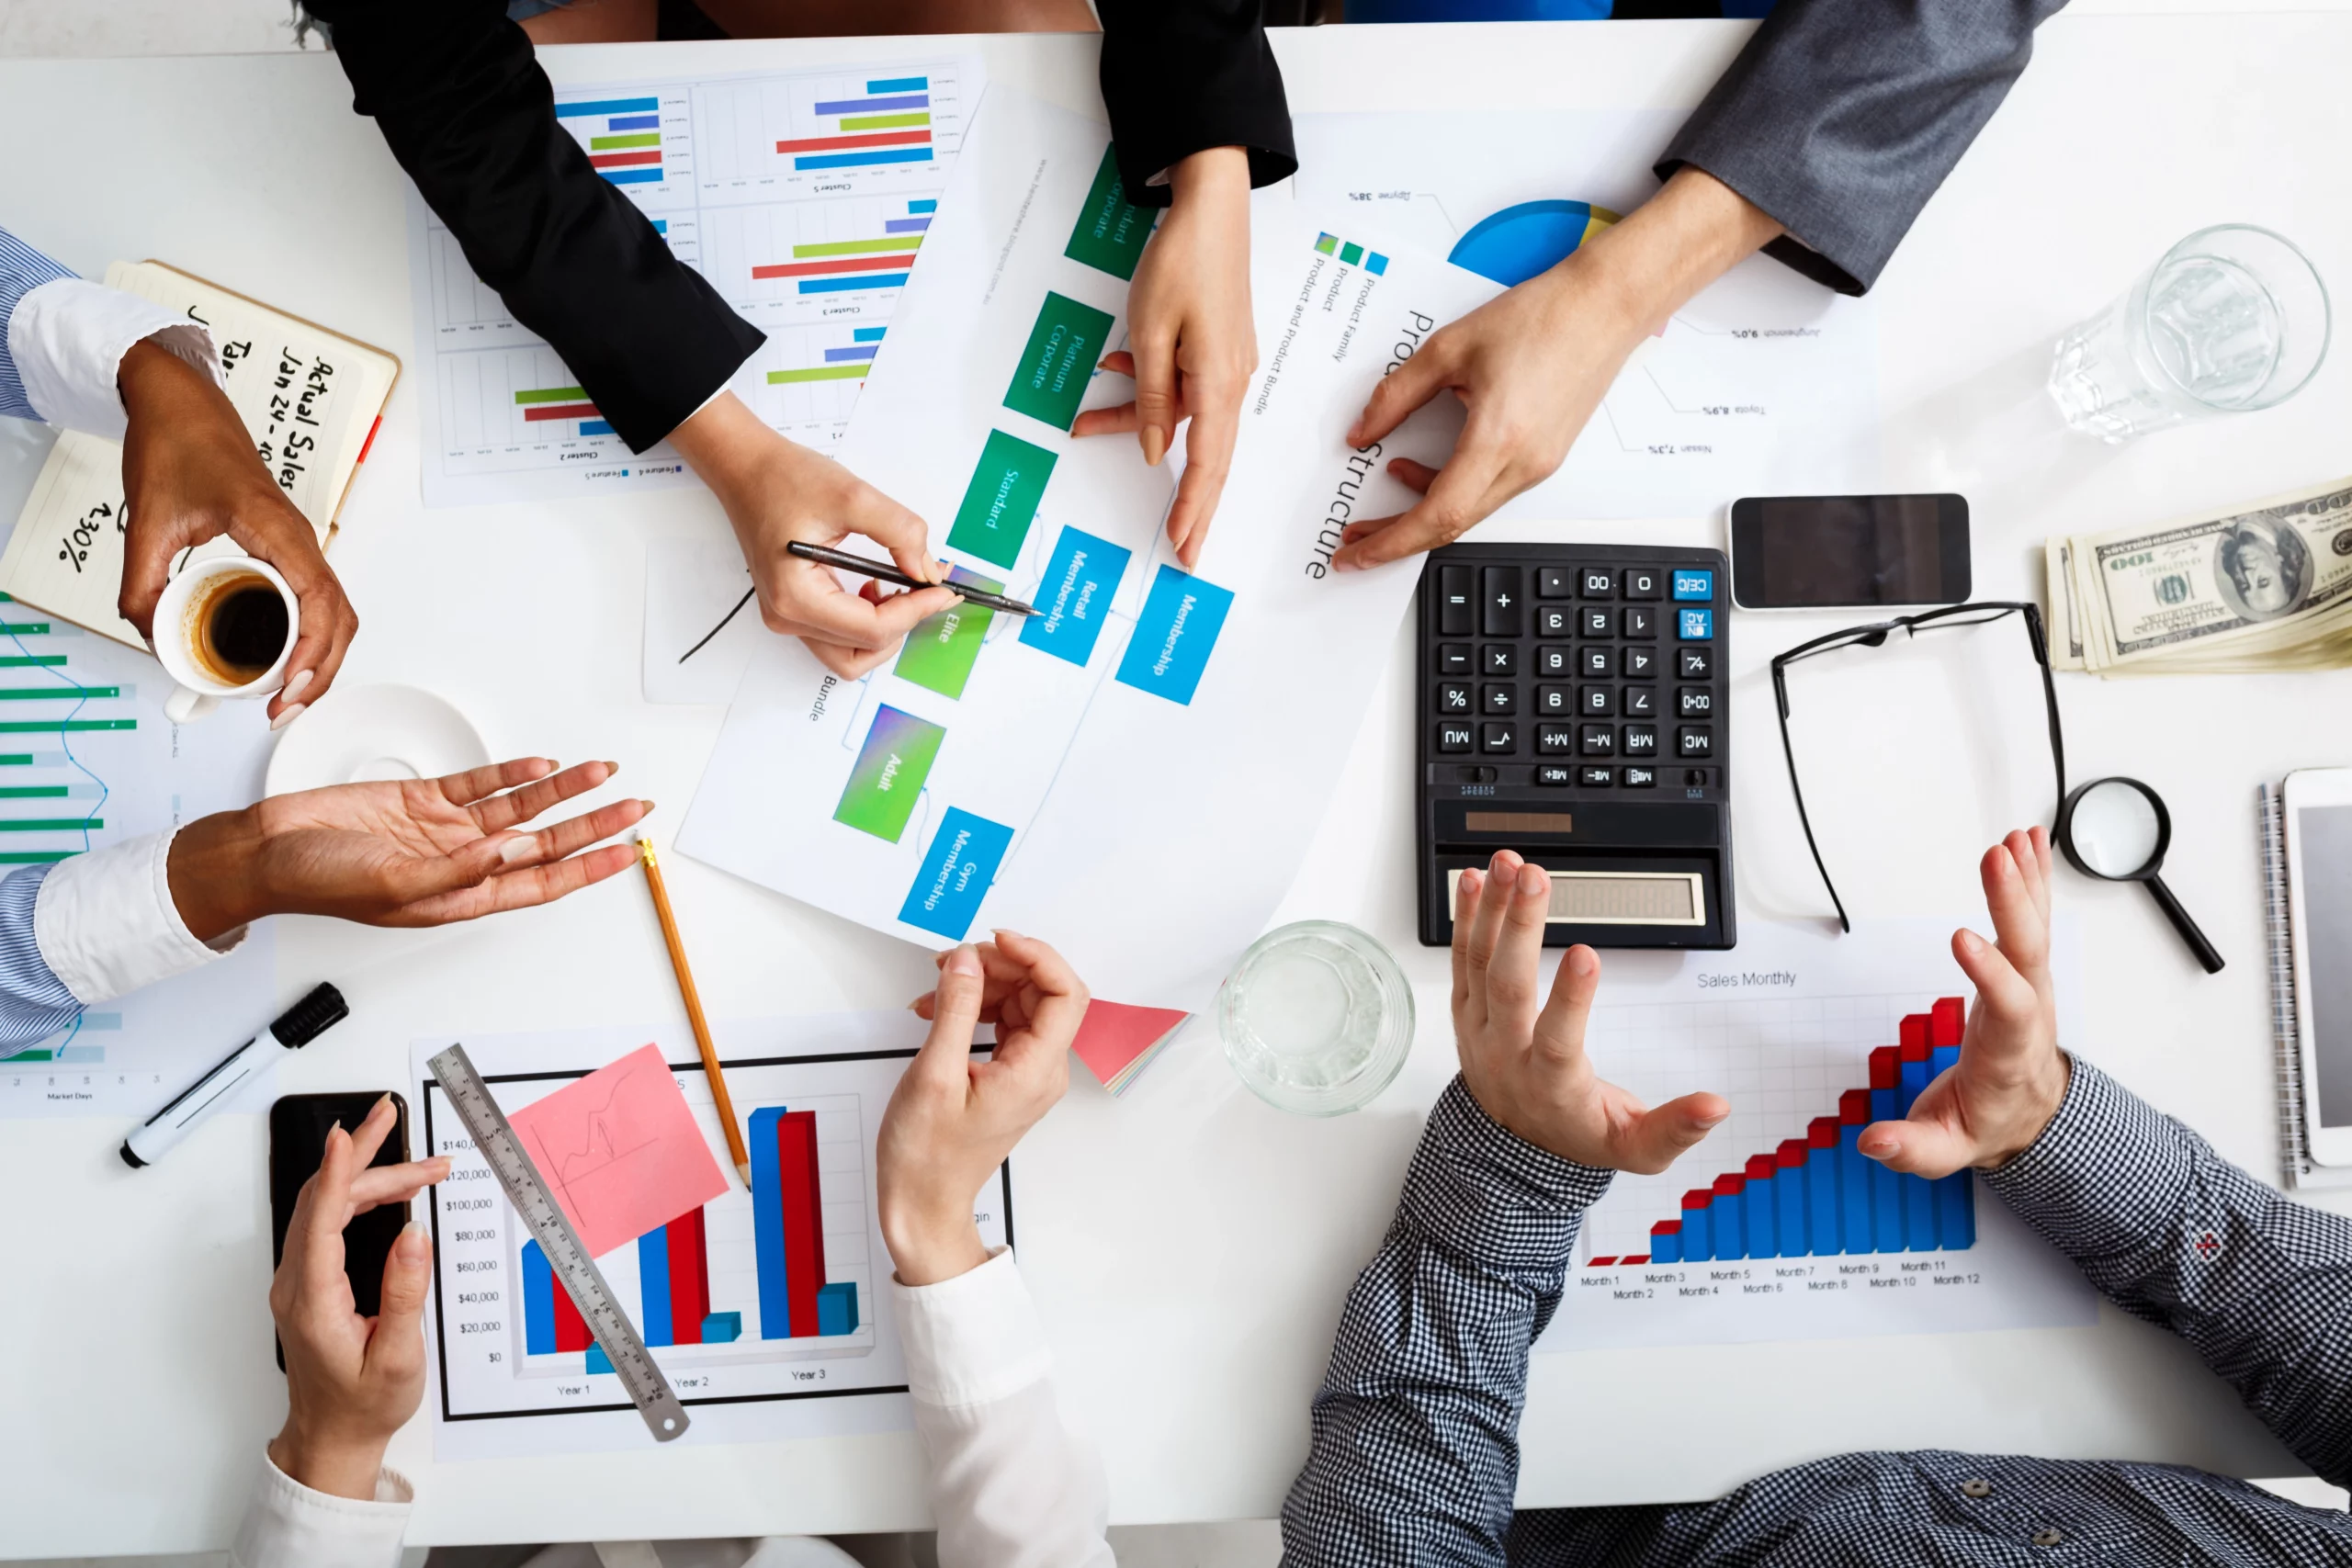
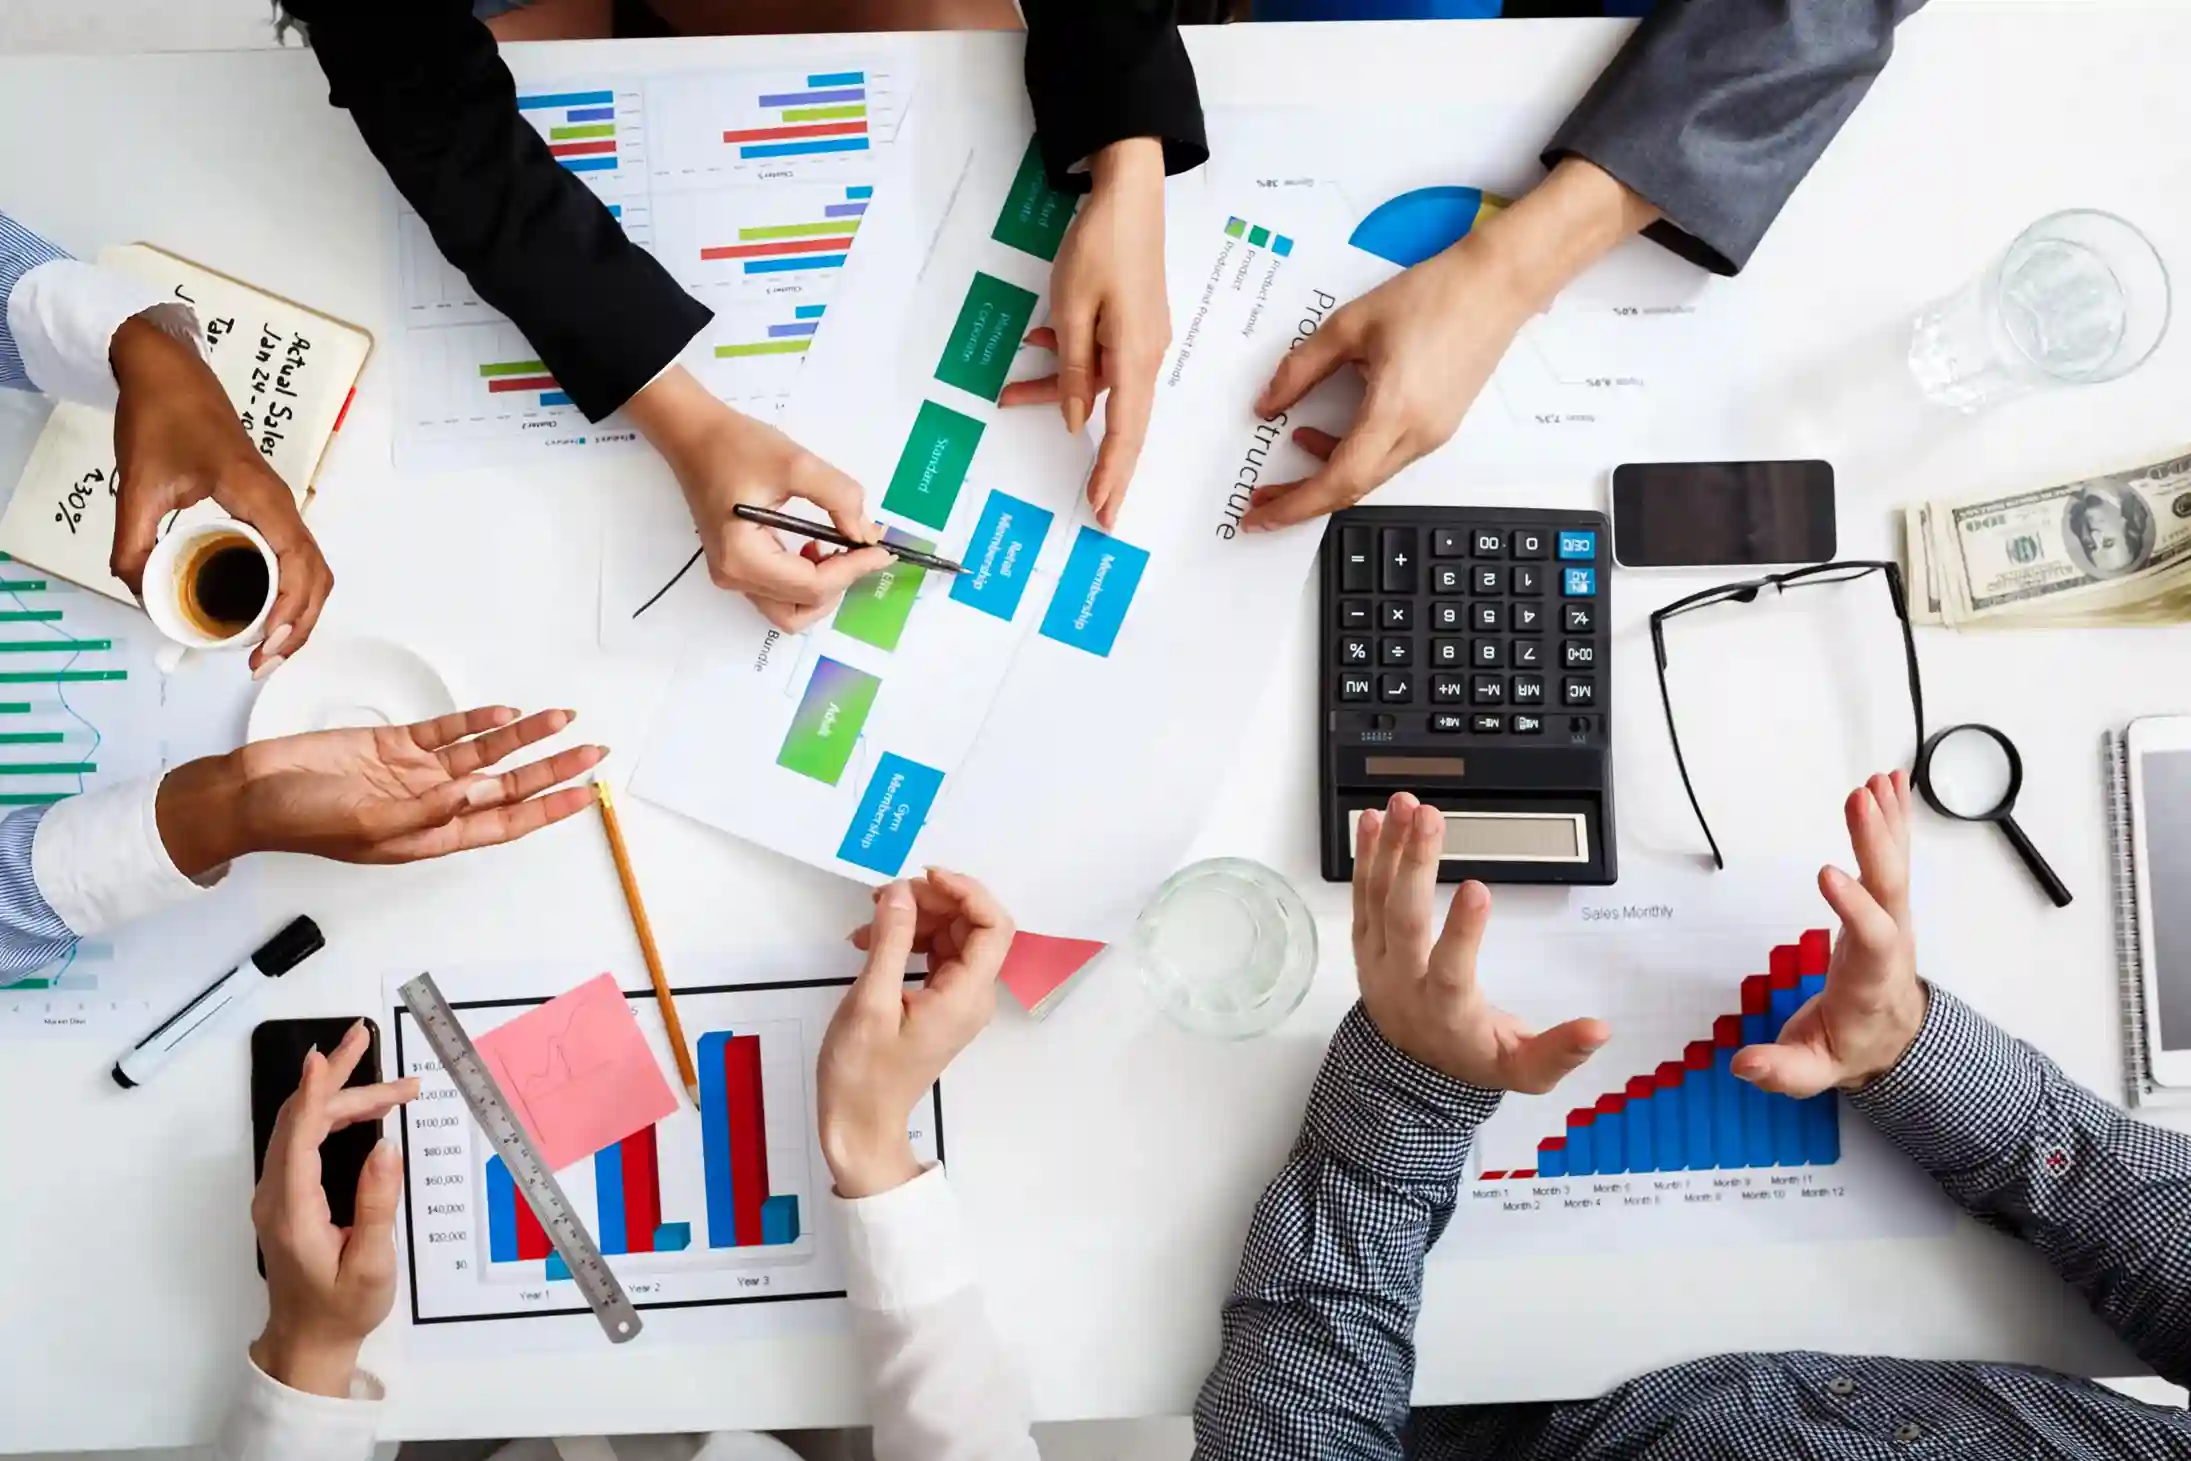
Add files via upload

diff --git a/css/index.css b/css/index.css
@@ -10,13 +10,27 @@
   overflow: hidden;
   display: grid;
   place-items: center;
-  color: #000;
+  color: white;
 }
 .hero-overlay{
     position: absolute;
     inset: 0;
-    background: transparent;
+    background:
+        linear-gradient(
+            135deg,
+            rgba(0,0,0,0.45) 0%,
+            rgba(0,0,0,0.25) 50%,
+            rgba(0,0,0,0.45) 100%
+        );
     z-index: 1;
+  }
+
+.hero-title{
+    text-shadow: 0 4px 20px rgba(0,0,0,0.6);
+}
+
+.hero-description{
+    text-shadow: 0 2px 10px rgba(0,0,0,0.5);
 }
 .slide img{
     width: 100%;
@@ -138,19 +152,18 @@
   margin-bottom: 20px;
   letter-spacing: -1.5px;
   text-transform: uppercase;
-  color: whitesmoke;
 }
 
 .gradient-text {
-  background: var(--accent-gradient);
+  background: whitesmoke;
   -webkit-background-clip: text;
-  -webkit-text-fill-color: transparent;
+  -webkit-text-fill-color: white;
   background-clip: text;
 }
 
 .hero-description {
   font-size: 18px;
-  color: black;
+  color: white;
   line-height: 1.9;
   margin: 0 auto 36px;
   max-width: 620px;
@@ -174,46 +187,16 @@
 }
 
 .hero-buttons .btn-secondary {
-  background: rgba(0, 0, 0, 0.05);
-  border-color: rgba(0, 0, 0, 0.15);
-  color: #000;
+  background: black;
+  border-color: white;
+  color: white;
 }
 
 .hero-buttons a:hover {
   transform: translateY(-3px);
 }
 
-.hero-scroll {
-  display: inline-flex;
-  flex-direction: column;
-  align-items: center;
-  margin-top: 32px;
-  gap: 8px;
-  color: #000;
-  text-decoration: none;
-  animation: float 4s ease-in-out infinite;
-}
 
-.hero-scroll-text {
-  font-size: 12px;
-  letter-spacing: 0.3em;
-  text-transform: uppercase;
-}
-
-.hero-scroll-icon {
-  display: grid;
-  place-items: center;
-  width: 44px;
-  height: 56px;
-  border: 1px solid rgba(0, 0, 0, 0.2);
-  border-radius: 999px;
-  box-shadow: inset 0 0 0 1px rgba(0, 0, 0, 0.05);
-}
-
-.hero-scroll-icon svg {
-  stroke: #000;
-  animation: arrowBounce 1.4s ease-in-out infinite;
-}
 
 @keyframes arrowBounce {
   0%, 100% { transform: translateY(0); }
@@ -228,22 +211,39 @@
   position: relative;
   z-index: 3;
 }
+.feature-card,
+.feature-card:hover,
+.feature-card:active,
+.feature-card:focus,
+.feature-card:focus-visible {
+    background: rgba(255,255,255,0.08) !important;
+    outline: none !important;
+    box-shadow: 0 25px 80px rgba(2,10,24,0.2) !important;
+}
+
+.feature-card::before,
+.feature-card::after {
+    display: none !important;
+}
+
+* {
+    -webkit-tap-highlight-color: transparent;
+}
 
 .feature-card {
   display: flex;
   align-items: flex-start;
   gap: 18px;
   padding: 30px;
-  border-radius: var(--radius-xl);
-  background: rgba(255,255,255,0.08);
+
+  background: rgba(15, 15, 15, 0.85);
   border: 1px solid rgba(255,255,255,0.08);
-  box-shadow: 0 25px 80px rgba(2, 10, 24, 0.2);
-  transition: transform 0.35s ease, box-shadow 0.35s ease;
+
 }
 
 .feature-card:hover {
-  transform: translateY(-10px);
-  box-shadow: 0 34px 90px rgba(2, 10, 24, 0.28);
+  transform: translateY(-3px);
+
 }
 
 .feature-icon {
@@ -263,12 +263,11 @@
   font-size: 17px;
   font-weight: 800;
   margin-bottom: 8px;
-  color: #000;
 }
 
 .feature-text p {
   font-size: 15px;
-  color: #000;
+  color: rgba(255,255,255,0.78);
   line-height: 1.75;
 }
 
@@ -794,6 +793,7 @@ body.theme-light .search-field {
   font-weight: 700;
   margin-bottom: 12px;
   color: white;
+  color: var(--accent-primary);
 }
 
 .trending-card p {

diff --git a/events.html b/events.html
@@ -77,7 +77,7 @@
   <section class="section events-listing">
     <div class="container">
       <div class="events-count">
-        <p>Showing <span id="eventCount">6</span> finance agents</p>
+        <p>Showing <span id="eventCount">8</span> finance agents</p>
         <div class="sort-dropdown">
           <select id="sortSelect">
             <option value="date">Sort by Date</option>
@@ -188,7 +188,7 @@
          <!-- Event 5 -->
         <div class="event-card animate-on-scroll" data-category="tax">
           <div class="event-image">
-            <img src="assets/w3.webp" alt="Royal Wedding Ceremony">
+            <img src="assets/w3.webp" alt="Tax Specialist">
             <div class="event-badge">Tax Specialist</div>
             <div class="event-date-chip">
               <span class="chip-day">15</span>
@@ -210,9 +210,9 @@
           </div>
         </div>
          <!-- Event 6 -->
-        <div class="event-card animate-on-scroll" data-category="tax">
+        <div class="event-card animate-on-scroll" data-category="bookkeeping">
           <div class="event-image">
-            <img src="assets/m7.webp" alt="Royal Wedding Ceremony">
+            <img src="assets/m7.webp" alt="bookkeepingy">
             <div class="event-badge">Bookkeepers</div>
             <div class="event-date-chip">
               <span class="chip-day">15</span>
@@ -226,6 +226,52 @@
             <div class="event-info">
               <span><svg width="14" height="14" viewBox="0 0 24 24" fill="none" stroke="currentColor" stroke-width="2"><path d="M21 10c0 7-9 13-9 13s-9-6-9-13a9 9 0 0 1 18 0z"/><circle cx="12" cy="10" r="3"/></svg> 10+ Years Experience</span>
               <span><svg width="14" height="14" viewBox="0 0 24 24" fill="none" stroke="currentColor" stroke-width="2"><path d="M17 21v-2a4 4 0 0 0-4-4H5a4 4 0 0 0-4 4v2"/><circle cx="9" cy="7" r="4"/></svg>250+ Clients Served</span>
+            </div>
+            <div class="event-footer">
+              
+              <a href="404.html" class="btn-primary btn-small">View Profile</a>
+            </div>
+          </div>
+        </div>
+         <!-- Event 7 -->
+        <div class="event-card animate-on-scroll" data-category="audit">
+          <div class="event-image">
+            <img src="assets/w6.webp" alt="Financial Auditor">
+            <div class="event-badge">Auditor</div>
+            <div class="event-date-chip">
+              <span class="chip-day">20</span>
+              <span class="chip-month">JAN</span>
+            </div>
+          </div>
+          <div class="event-content">
+            <h3 class="event-title">Financial Advisor</h3>
+            <p class="event-desc">Expert in financial auditing, compliance, and risk assessment for businesses of all sizes.</p>
+            <div class="event-info">
+              <span><svg width="14" height="14" viewBox="0 0 24 24" fill="none" stroke="currentColor" stroke-width="2"><path d="M21 10c0 7-9 13-9 13s-9-6-9-13a9 9 0 0 1 18 0z"/><circle cx="12" cy="10" r="3"/></svg> 12+ Years Experience</span>
+              <span><svg width="14" height="14" viewBox="0 0 24 24" fill="none" stroke="currentColor" stroke-width="2"><path d="M17 21v-2a4 4 0 0 0-4-4H5a4 4 0 0 0-4 4v2"/><circle cx="9" cy="7" r="4"/></svg>300+ Audits Completed</span>
+            </div>
+            <div class="event-footer">
+              
+              <a href="404.html" class="btn-primary btn-small">View Profile</a>
+            </div>
+          </div>
+        </div>
+          <!-- Event 8 -->
+        <div class="event-card animate-on-scroll" data-category="compliance">
+          <div class="event-image">
+            <img src="assets/tech-summit.webp" alt="Financial compliance">
+            <div class="event-badge">compliance Officer</div>
+            <div class="event-date-chip">
+              <span class="chip-day">20</span>
+              <span class="chip-month">JAN</span>
+            </div>
+          </div>
+          <div class="event-content">
+            <h3 class="event-title">compliance Officer</h3>
+            <p class="event-desc">Expert in financial auditing, compliance, and risk assessment for businesses of all sizes.</p>
+            <div class="event-info">
+              <span><svg width="14" height="14" viewBox="0 0 24 24" fill="none" stroke="currentColor" stroke-width="2"><path d="M21 10c0 7-9 13-9 13s-9-6-9-13a9 9 0 0 1 18 0z"/><circle cx="12" cy="10" r="3"/></svg> 12+ Years Experience</span>
+              <span><svg width="14" height="14" viewBox="0 0 24 24" fill="none" stroke="currentColor" stroke-width="2"><path d="M17 21v-2a4 4 0 0 0-4-4H5a4 4 0 0 0-4 4v2"/><circle cx="9" cy="7" r="4"/></svg>300+ Audits Completed</span>
             </div>
             <div class="event-footer">
               

diff --git a/index.html b/index.html
@@ -51,16 +51,16 @@
     <div class="hero-bg-image">
       <div class="slideshow-container">
         <div class="slide fade active">
-          <img src="assets/hero-1.webp" alt="Premium Daytime Event" loading="lazy" decoding="async">
+          <img src="assets/h5.webp" alt="Premium Daytime Event" loading="lazy" decoding="async">
         </div>
         <div class="slide fade">
-          <img src="assets/2.webp" alt="Outdoor Celebration" loading="lazy" decoding="async">
+          <img src="assets/h7.webp" alt="Outdoor Celebration" loading="lazy" decoding="async">
         </div>
         <div class="slide fade">
-          <img src="assets/4.webp" alt="Wedding Reception" loading="lazy" decoding="async">
+          <img src="assets/h5.webp" alt="Wedding Reception" loading="lazy" decoding="async">
         </div>
         <div class="slide fade">
-          <img src="assets/1.webp" alt="Corporate Gathering" loading="lazy" decoding="async">
+          <img src="assets/h7.webp" alt="Corporate Gathering" loading="lazy" decoding="async">
         </div>
       </div>
       <div class="hero-overlay"></div>
@@ -76,10 +76,7 @@
   <span class="gradient-text">Solutions for Growth</span>
 </h1>
 
-<p class="hero-description">
-  Empower your business with expert accounting, financial planning,
-  tax management, and data-driven insights that support long-term success.
-</p>
+
         <div class="hero-buttons">
           <a href="404.html" class="btn-primary">
             Get Consultation
@@ -98,15 +95,7 @@
             Explore Services
           </a>
         </div>
-        <a class="hero-scroll" href="#eventSearchSection" aria-label="Scroll to event search">
-          <span class="hero-scroll-text">Scroll to discover</span>
-          <span class="hero-scroll-icon">
-            <svg width="20" height="28" viewBox="0 0 24 24" fill="none" stroke="currentColor" stroke-width="2" stroke-linecap="round" stroke-linejoin="round">
-              <path d="M12 5v14"/>
-              <polyline points="18 15 12 21 6 15"/>
-            </svg>
-          </span>
-        </a>
+       
       </div>
     </div>
 
@@ -123,7 +112,7 @@
           </div>
           <div class="feature-text">
             <h3>Financial Planning</h3>
-<p>Strategic financial roadmaps to achieve sustainable business growth.</p>
+            <p>Strategic financial roadmaps to achieve sustainable business growth.</p>
           </div>
         </div>
         <div class="feature-card glass-card animate-on-scroll">
@@ -135,7 +124,7 @@
           </div>
           <div class="feature-text">
             <h3>Accurate Accounting</h3>
-<p>Reliable bookkeeping and reporting for complete financial transparency.</p>
+            <p>Reliable bookkeeping and reporting for complete financial transparency.</p>
           </div>
         </div>
         <div class="feature-card glass-card animate-on-scroll">
@@ -146,7 +135,7 @@
           </div>
           <div class="feature-text">
             <h3>Tax Optimization</h3>
-<p>Minimize liabilities and maximize savings with expert tax strategies.</p>
+            <p>Minimize liabilities and maximize savings with expert tax strategies.</p>
           </div>
         </div>
       </div>

diff --git a/services.html b/services.html
@@ -135,7 +135,7 @@ Make informed business decisions through expert financial analysis, forecasting,
           <a href="404.html" class="btn-secondary">Talk to an Advisor</a>
         </div>
         <div class="service-image">
-          <img src="assets/event-daytime-14.webp" alt="Private Party with DJ">
+          <img src="assets/tech-summit.webp" alt="Private Party with DJ">
         </div>
       </div>
 